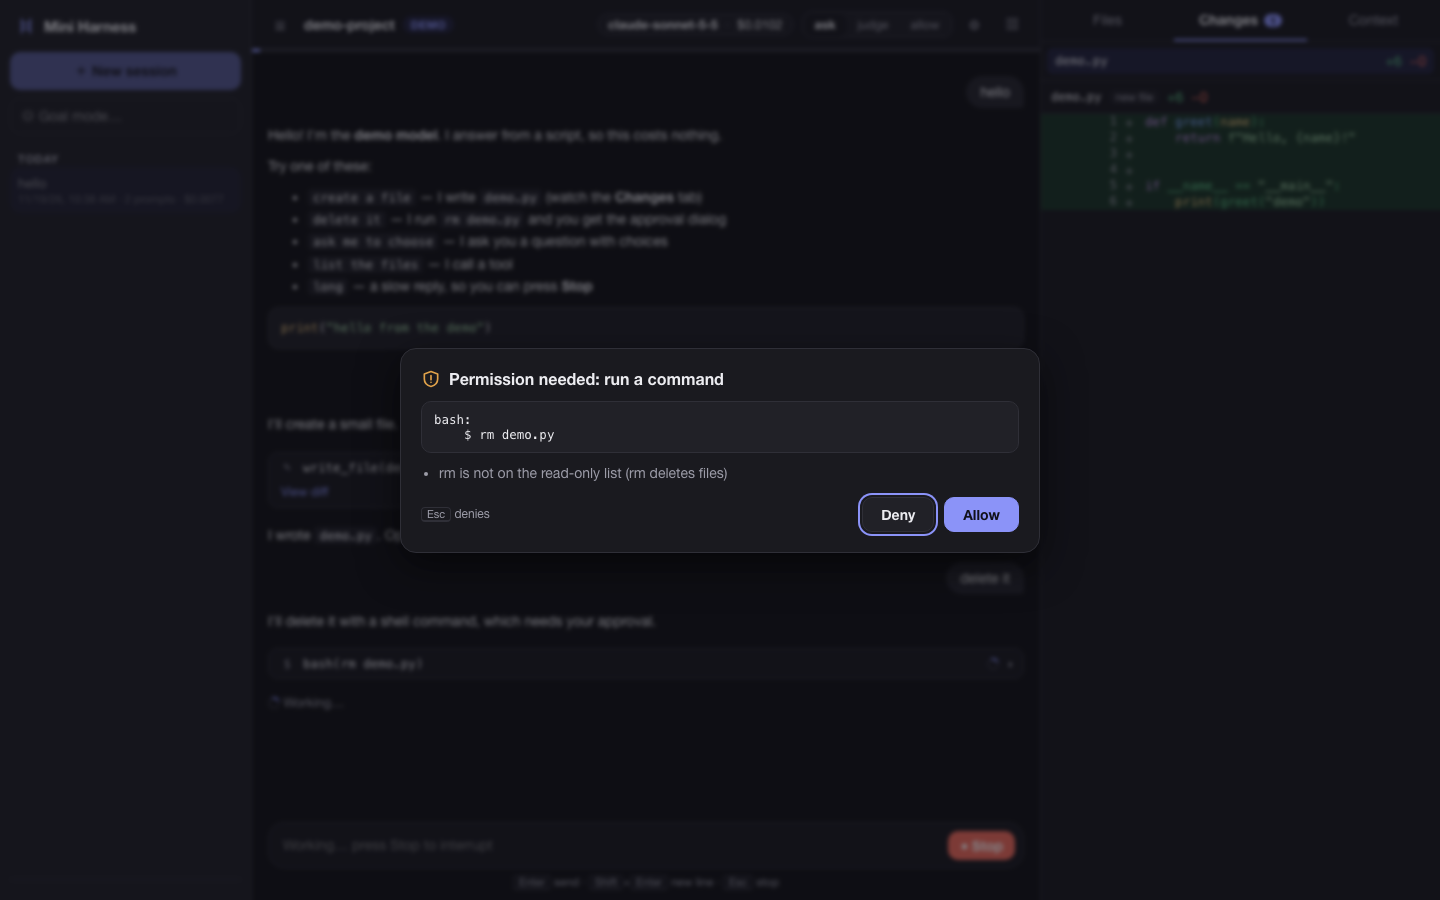
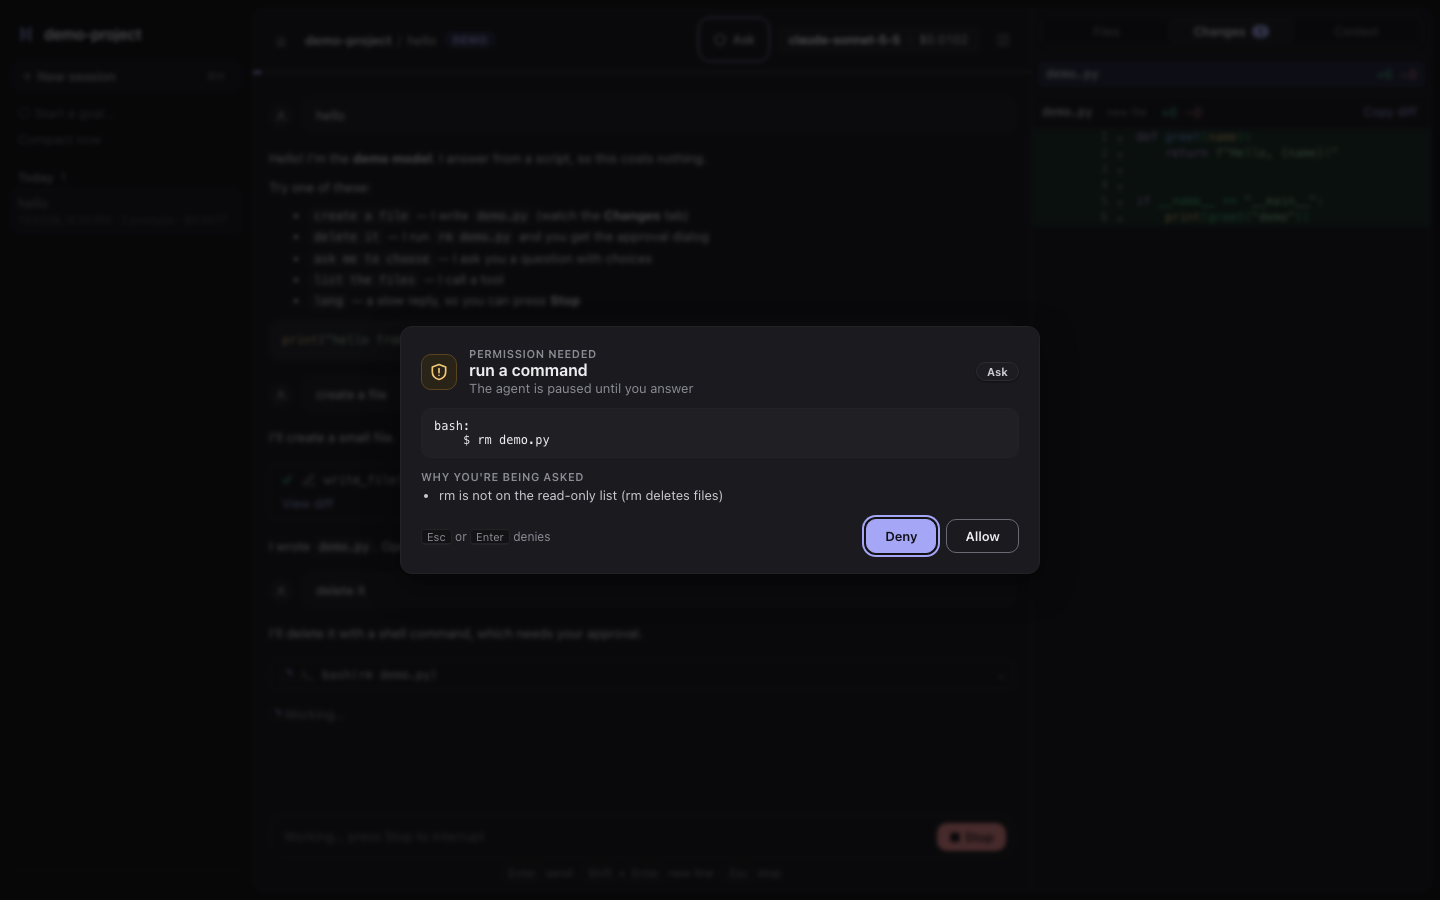
Regenerate screenshots and fix Stop button contrast (plan phase 10)
- The Stop button used a hardcoded white on --bad, about 2.4:1 in dark mode; it now uses --panel (6.5:1 light, 7.7:1 dark)
- docs/screenshots regenerated in light and dark for all six e2e steps
- A contrast check over the built CSS (113 text/surface and field-border pairs per theme) found nothing else below 4.5:1 / 3:1

diff --git a/ui/src/styles.css b/ui/src/styles.css
@@ -292,7 +292,7 @@ kbd { font-family: inherit; font-size: 11px; background: var(--panel); border: 1
 .composer .box:focus-within { border-color: var(--accent); box-shadow: var(--focus); }
 .composer textarea { flex: 1; resize: none; border: 0; outline: 0; background: none; max-height: 220px; line-height: 1.5; padding: 4px 0; box-shadow: none; }
 .composer .send, .composer .stop { border: 0; border-radius: 10px; padding: 6px 12px; font-weight: 600; min-width: 36px; }
-.composer .send { background: var(--accent); color: var(--accent-text); } .composer .stop { background: var(--bad); color: #fff; }
+.composer .send { background: var(--accent); color: var(--accent-text); } .composer .stop { background: var(--bad); color: var(--panel); }
 .composer .foot { font-size: 11.5px; color: var(--muted); text-align: center; margin-top: 6px; }
 .palette { position: absolute; bottom: 62px; left: 16px; right: 16px; list-style: none; margin: 0; padding: 4px; background: var(--panel); border: 1px solid var(--line); border-radius: 12px; box-shadow: var(--shadow); z-index: 5; }
 .palette li { padding: 6px 10px; border-radius: 8px; cursor: pointer; display: flex; gap: 10px; } .palette li.active, .palette li:hover { background: var(--sunken); } .palette span { color: var(--muted); }
